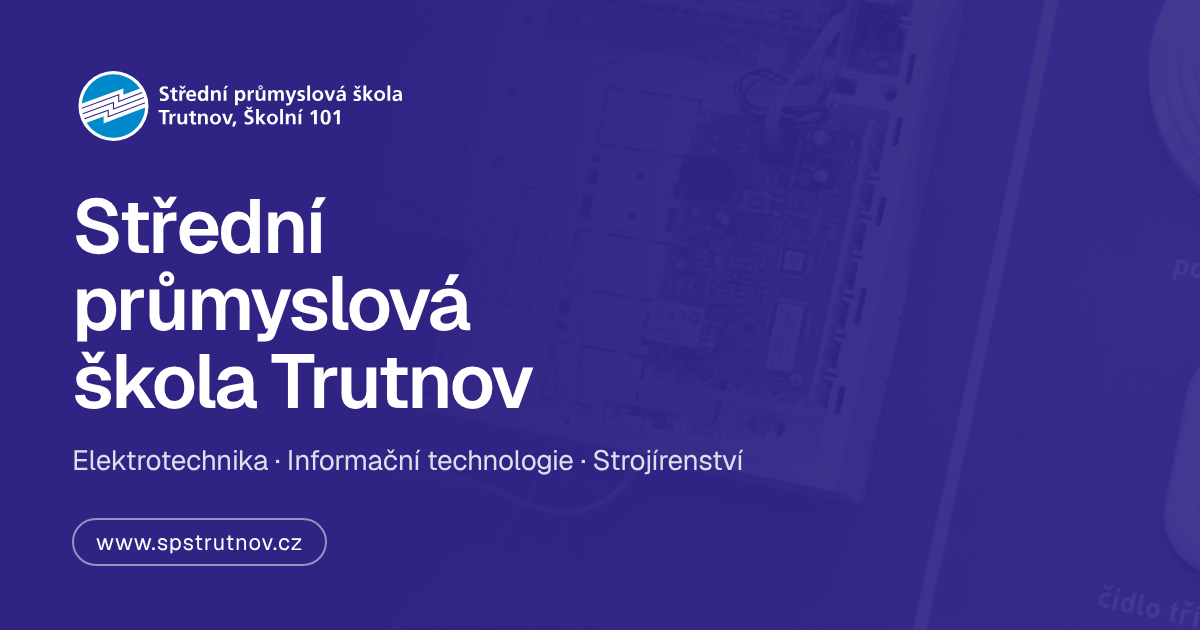
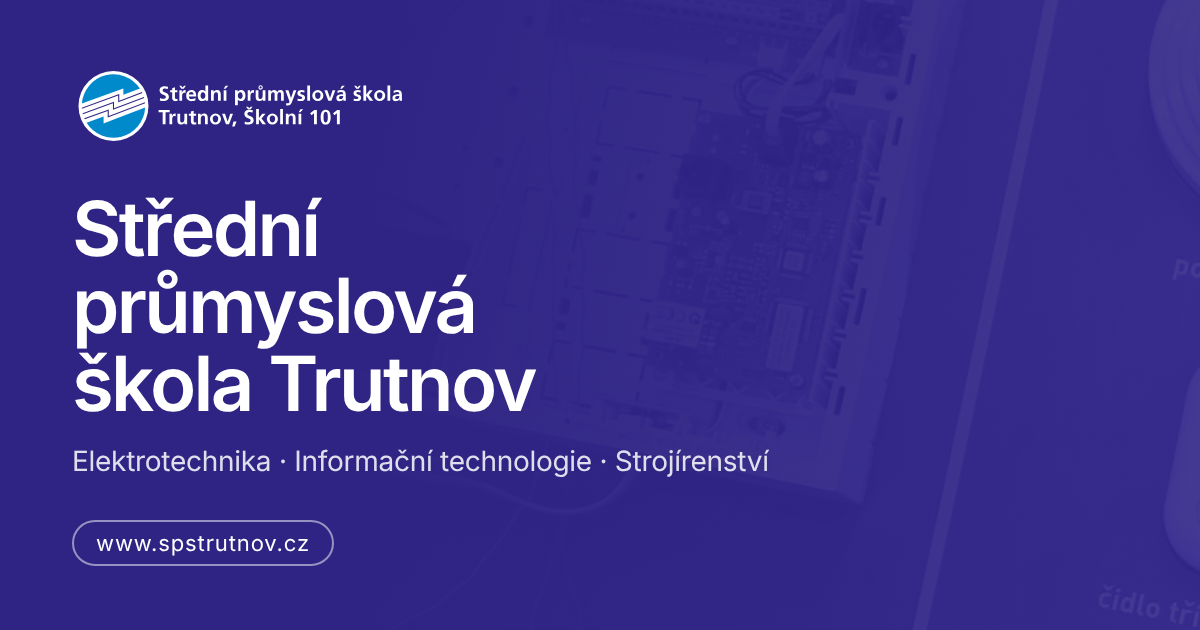
Inter as the only typeface; redesigned Adobe slide
- whole site (and the share image) now uses Inter only; Geist and the
  monospace labels are gone (labels use tabular figures)
- Adobe slide redrawn: Creative Cloud style app tiles (Ps, Ai, Id, Pr,
  Acrobat, Bridge) in the apps' own colours as crisp HTML, gently
  floating (pausable, off with reduced motion), on a light canvas
- stipend cutout no longer overlaps the text on phones
- gallery captions keep 4.5:1 contrast; fixed a CSS block that broke
  the CTA background on the homepage

Claude-Session: https://claude.ai/code/session_0118zcaYow4SxXKgFD39ZGSp

diff --git a/src/styles/components.css b/src/styles/components.css
@@ -11,7 +11,7 @@
 		border: var(--border-width) solid color-mix(in oklab, var(--color-accent) 28%, transparent);
 		border-radius: var(--radius-full);
 		background: color-mix(in oklab, var(--color-accent) 8%, var(--color-bg));
-		font-family: var(--font-mono);
+		font-variant-numeric: tabular-nums;
 		font-size: var(--text-xs);
 		font-weight: var(--weight-medium);
 		line-height: var(--leading-snug);
@@ -53,7 +53,7 @@
 		color: var(--color-text-muted);
 	}
 	.meta {
-		font-family: var(--font-mono);
+		font-variant-numeric: tabular-nums;
 		font-size: var(--text-xs);
 		color: var(--color-text-muted);
 		letter-spacing: var(--tracking-wide);
@@ -225,7 +225,7 @@
 		padding: var(--space-3xs) var(--space-xs);
 		border: var(--border-width) solid var(--color-border);
 		border-radius: var(--radius-full);
-		font-family: var(--font-mono);
+		font-variant-numeric: tabular-nums;
 		font-size: var(--text-xs);
 		letter-spacing: var(--tracking-wide);
 		text-transform: uppercase;
@@ -296,7 +296,7 @@
 	.panel--plus::after {
 		content: "+";
 		position: absolute;
-		font-family: var(--font-mono);
+		font-variant-numeric: tabular-nums;
 		font-size: var(--text-xs);
 		line-height: 1;
 		color: var(--color-text-muted);
@@ -598,7 +598,7 @@
 		vertical-align: top;
 	}
 	.table th {
-		font-family: var(--font-mono);
+		font-variant-numeric: tabular-nums;
 		font-size: var(--text-xs);
 		font-weight: var(--weight-medium);
 		letter-spacing: var(--tracking-wide);
@@ -668,7 +668,7 @@
 		gap: var(--space-2xs);
 		list-style: none;
 		padding: 0;
-		font-family: var(--font-mono);
+		font-variant-numeric: tabular-nums;
 		font-size: var(--text-xs);
 		letter-spacing: var(--tracking-wide);
 		text-transform: uppercase;
@@ -834,7 +834,7 @@
 		padding: var(--space-3xs) var(--space-2xs);
 		border: var(--border-width) solid var(--color-border);
 		border-radius: var(--radius-s);
-		font-family: var(--font-mono);
+		font-variant-numeric: tabular-nums;
 		font-size: var(--text-xs);
 		color: var(--color-text-muted);
 	}
@@ -847,7 +847,7 @@
 	}
 	.cmdk__group {
 		padding: var(--space-s) var(--space-xs) var(--space-3xs);
-		font-family: var(--font-mono);
+		font-variant-numeric: tabular-nums;
 		font-size: var(--text-xs);
 		letter-spacing: var(--tracking-wide);
 		text-transform: uppercase;

diff --git a/src/styles/tokens.css b/src/styles/tokens.css
@@ -44,6 +44,19 @@
 		--brand-logo-disc: #ffffff;
 		--brand-logo-navy: #2f2483;
 		--brand-logo-blue: #008acc;
+		/* Adobe Creative Cloud app colours (tile background / glyph) — Adobe slide on the homepage. */
+		--adobe-ps-bg: #001e36;
+		--adobe-ps-fg: #31a8ff;
+		--adobe-ai-bg: #330000;
+		--adobe-ai-fg: #ff9a00;
+		--adobe-id-bg: #49021f;
+		--adobe-id-fg: #ff3366;
+		--adobe-pr-bg: #00005b;
+		--adobe-pr-fg: #9999ff;
+		--adobe-ac-bg: #b30b00;
+		--adobe-ac-fg: #ffffff;
+		--adobe-br-bg: #1f1300;
+		--adobe-br-fg: #f0a500;
 
 		/* Study-program accents (one hue per obor, used sparingly as tags) */
 		--prim-program-eps: #2b3a8f;
@@ -93,8 +106,8 @@
 		color-scheme: light;
 
 		/* ---------- Typography --------------------------------------------- */
-		--font-sans: "Geist Variable", ui-sans-serif, system-ui, -apple-system, "Segoe UI", sans-serif;
-		--font-mono: "Geist Mono Variable", ui-monospace, "SFMono-Regular", Menlo, monospace;
+		/* One typeface for the whole site: Inter (labels use tabular figures instead of a mono font). */
+		--font-sans: "Inter Variable", ui-sans-serif, system-ui, -apple-system, "Segoe UI", sans-serif;
 
 		/* Compact fluid scale. Running text never drops below 1rem (16px). */
 		--text-xs: 0.8125rem; /* mono labels, pills, meta — never running text */

diff --git a/tests/site.spec.ts b/tests/site.spec.ts
@@ -365,10 +365,11 @@ test("CMS maintenance endpoint rejects anonymous calls", async ({ request }) => 
 	expect(res.status()).toBe(401);
 });
 
-test("landing hero is built from the original homepage slider photos", async ({ page }) => {
+test("landing hero is built from the original homepage slider (photos + Adobe apps)", async ({ page }) => {
 	await page.goto("/");
 	const html = await page.locator(".hero .carousel").innerHTML();
-	for (const name of ["spstrutnov-dod-2026", "adb-small", "roboticke-pracoviste-wide", "studentka-klik"]) expect(html, name).toContain(`/images/foto/${name}-`);
+	for (const name of ["spstrutnov-dod-2026", "roboticke-pracoviste-wide", "studentka-klik"]) expect(html, name).toContain(`/images/foto/${name}-`);
+	await expect(page.locator(".hero .app__tile")).toHaveText(["Ps", "Ai", "Id", "Pr", "Ac", "Br"]);
 	await expect(page.locator(".hero h1")).toHaveText("Technika, která tě posune dál.");
 	await expect(page.locator(".hero .slide__img").first()).toHaveAttribute("fetchpriority", "high");
 });

diff --git a/src/styles/motion.css b/src/styles/motion.css
@@ -146,7 +146,7 @@
 		animation: loader-bar var(--duration-slower) var(--ease-in-out) both;
 	}
 	.loader__label {
-		font-family: var(--font-mono);
+		font-variant-numeric: tabular-nums;
 		font-size: var(--text-xs);
 		letter-spacing: var(--tracking-wide);
 		text-transform: uppercase;

diff --git a/src/styles/base.css b/src/styles/base.css
@@ -150,7 +150,7 @@
 
 	code,
 	kbd {
-		font-family: var(--font-mono);
+		font-variant-numeric: tabular-nums;
 		font-size: 0.92em;
 	}
 }
